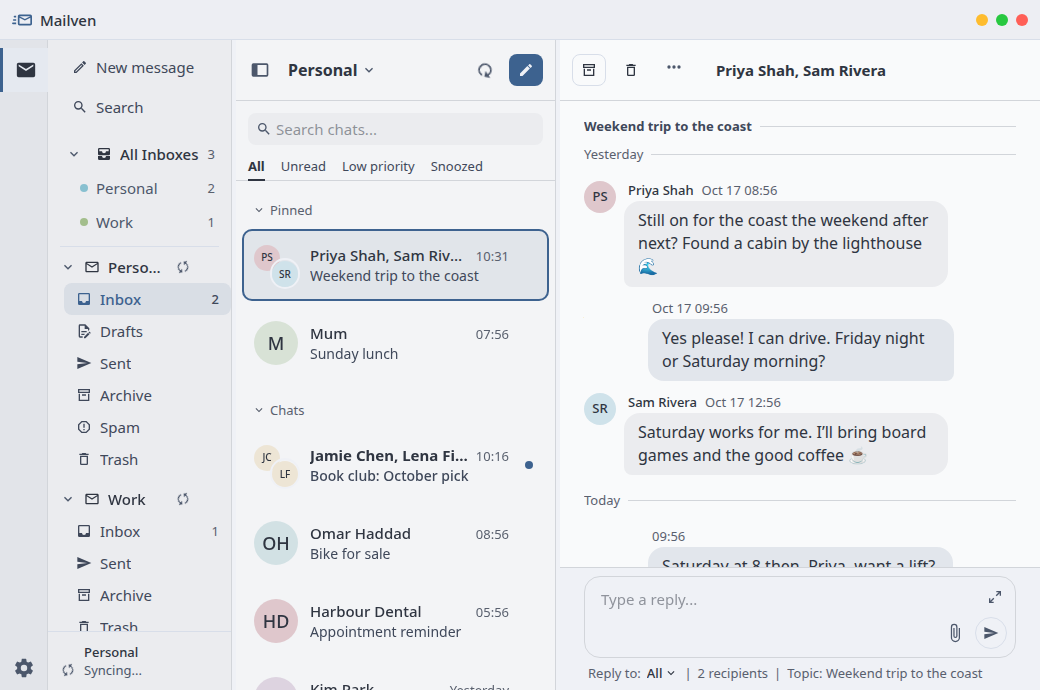
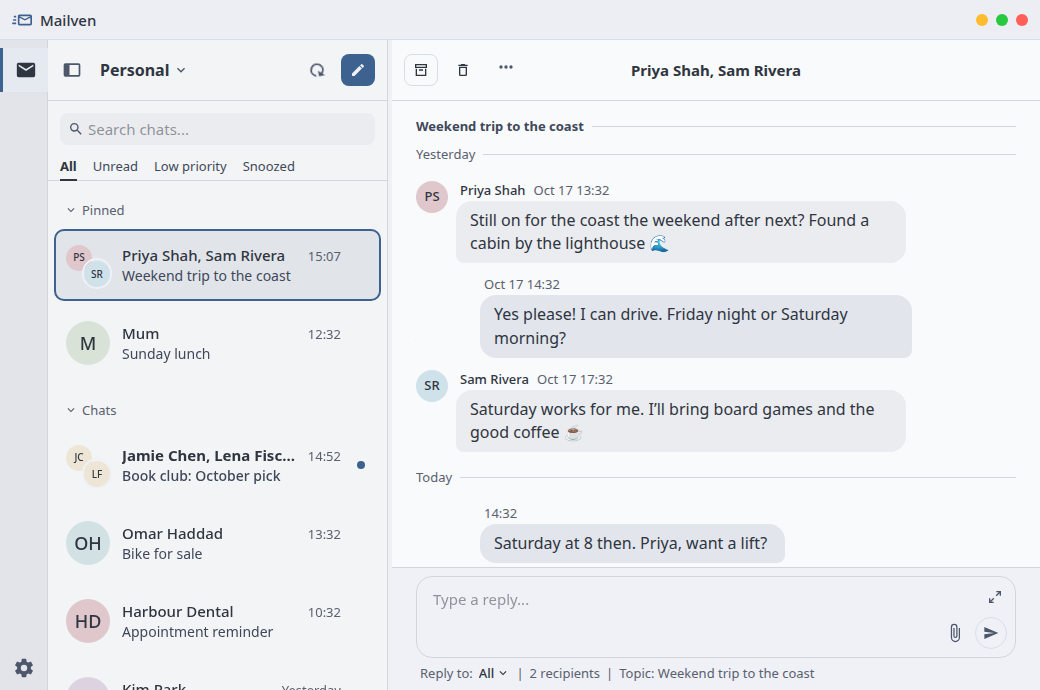
docs: compare a webmail thread with the narrow chat shot and collapse Accounts in the light shot
- Add docs/ss-webmail-thread.png, a generic dark webmail thread view of the
  trip thread (run-mailven/webmail-thread-mock.html, no real product's name or
  logo), shown beside docs/ss-narrow.png in the README.
- Retake docs/ss-light.png with the Accounts column collapsed.
- headless-shot.js renders both; the screenshot references list five shots.

diff --git a/.agents/skills/run-mailven/webmail-thread-mock.html b/.agents/skills/run-mailven/webmail-thread-mock.html
@@ -1,0 +1,80 @@
+<!doctype html>
+<!-- Generic webmail thread-view mock (dark) for the README comparison shot (docs/ss-webmail-thread.png).
+     The trip thread from screenshot-fakes.js as a typical webmail shows it; deliberately no real product's
+     name or logo. Rendered at 480x750 by headless-shot.js beside docs/ss-narrow.png. -->
+<meta charset="utf-8">
+<title>Webmail thread mock</title>
+<style>
+  * { box-sizing: border-box; }
+  body { margin: 0; width: 480px; height: 750px; overflow: hidden; font: 13px/1.35 "Noto Sans", "Segoe UI", Arial, sans-serif; color: #e3e3e3; background: #1b1b1b; }
+  .ic { width: 22px; height: 22px; display: inline-grid; place-items: center; color: #c4c7c5; flex: none; font-size: 14px; }
+  .tool { height: 46px; display: flex; align-items: center; gap: 8px; padding: 0 10px; border-bottom: 1px solid #333; }
+  .tool .pg { margin-left: auto; font-size: 11.5px; color: #a8a8a8; white-space: nowrap; }
+  .banner { margin: 8px 10px 0; padding: 7px 10px; border-radius: 8px; background: #3a3221; color: #f1dfb0; font-size: 12px; display: flex; align-items: center; gap: 8px; }
+  .banner u { color: #a8c7fa; text-decoration: none; font-weight: 600; white-space: nowrap; } .banner .x { margin-left: auto; color: #a8a8a8; }
+  .subj { display: flex; align-items: flex-start; gap: 8px; padding: 12px 14px 8px 18px; }
+  .subj h1 { margin: 0; font-size: 19px; font-weight: 400; line-height: 1.3; flex: 1; }
+  .lbl { display: inline-flex; align-items: center; gap: 4px; font-size: 11px; padding: 1px 6px; border-radius: 4px; background: #3c3c3c; color: #ddd; vertical-align: 3px; margin-left: 4px; }
+  .lbl i { font-style: normal; color: #999; }
+  .msg { display: flex; gap: 10px; padding: 9px 14px 9px 14px; border-top: 1px solid #2c2c2c; }
+  .av { width: 32px; height: 32px; border-radius: 50%; display: grid; place-items: center; font-weight: 600; font-size: 13px; color: #fff; flex: none; }
+  .bd { flex: 1; min-width: 0; }
+  .hd { display: flex; align-items: baseline; gap: 6px; white-space: nowrap; }
+  .hd b { font-weight: 700; } .hd .em { color: #a8a8a8; font-size: 11.5px; overflow: hidden; text-overflow: ellipsis; }
+  .hd .dt { margin-left: auto; color: #a8a8a8; font-size: 11.5px; padding-left: 6px; }
+  .snip { color: #a8a8a8; white-space: nowrap; overflow: hidden; text-overflow: ellipsis; }
+  .more { display: flex; align-items: center; gap: 10px; height: 28px; padding: 0 14px 0 18px; border-top: 1px solid #2c2c2c; }
+  .more .n { width: 26px; height: 26px; border-radius: 50%; border: 1px solid #555; display: grid; place-items: center; font-size: 12px; color: #c4c7c5; background: #1b1b1b; }
+  .more::after { content: ''; flex: 1; border-top: 1px solid #3a3a3a; border-bottom: 1px solid #3a3a3a; height: 3px; }
+  .to { color: #a8a8a8; font-size: 11.5px; margin-top: 1px; }
+  .acts { display: flex; gap: 4px; color: #c4c7c5; }
+  .body { margin-top: 12px; font-size: 13.5px; }
+  .body p { margin: 0 0 10px; }
+  .sig { color: #a8a8a8; font-size: 12.5px; }
+  .trim { display: inline-block; padding: 0 7px; border-radius: 6px; background: #3c3c3c; color: #ccc; font-size: 11px; letter-spacing: 1px; line-height: 14px; margin: 2px 0 8px; }
+  .quote { border-left: 1px solid #555; padding-left: 10px; color: #a8a8a8; font-size: 12.5px; }
+  .quote p { margin: 0 0 6px; }
+  .chips { display: flex; gap: 8px; padding: 6px 14px 0 56px; flex-wrap: wrap; }
+  .chips span { border: 1px solid #555; border-radius: 8px; padding: 5px 12px; color: #a8c7fa; font-size: 12.5px; }
+  .btns { display: flex; gap: 8px; padding: 12px 14px 0 56px; }
+  .btns span { border: 1px solid #666; border-radius: 18px; padding: 7px 14px; font-size: 13px; color: #e3e3e3; white-space: nowrap; }
+</style>
+<div class="tool">
+  <span class="ic">←</span><span class="ic">▣</span><span class="ic">ⓘ</span><span class="ic">⌫</span><span class="ic">✉</span><span class="ic">◷</span><span class="ic">✓</span><span class="ic">⇥</span><span class="ic">◇</span><span class="ic">⋮</span>
+  <span class="pg">2 of 2,481 &nbsp;‹ ›</span>
+</div>
+<div class="banner">🔔 Enable desktop notifications for Webmail. <u>OK</u> <u>No thanks</u><span class="x">✕</span></div>
+<div class="subj">
+  <h1>Weekend trip to the coast <span class="lbl">Inbox <i>×</i></span><span class="lbl">Travel <i>×</i></span></h1>
+  <span class="ic">⎙</span><span class="ic">⧉</span>
+</div>
+<div class="msg">
+  <span class="av" style="background:#8a5a7a">P</span>
+  <div class="bd"><div class="hd"><b>Priya Shah</b><span class="dt">Oct 17, 2026, 8:56 AM</span></div>
+  <div class="snip">Still on for the coast the weekend after next? Found a cabin by the lighthouse 🌊 Priya -- Sent from my phone</div></div>
+</div>
+<div class="more"><span class="n">3</span></div>
+<div class="msg">
+  <span class="av" style="background:#8a5a7a">P</span>
+  <div class="bd"><div class="hd"><b>Priya Shah</b><span class="dt">10:04 AM (50 minutes ago)</span></div>
+  <div class="snip">Yes please! On Sat, Oct 18, 2026 at 9:56 AM Alex Morgan &lt;alex@example.com&gt; wrote: &gt; Saturday at 8 then…</div></div>
+</div>
+<div class="msg">
+  <span class="av" style="background:#8a5a7a">P</span>
+  <div class="bd">
+    <div class="hd"><b>Priya Shah</b><span class="em">&lt;priya@example.net&gt;</span><span class="dt">10:29 AM (25 min ago)</span></div>
+    <div class="hd"><span class="to">to me, Sam ▾</span><span class="acts" style="margin-left:auto"><span class="ic">☆</span><span class="ic">☺</span><span class="ic">↩</span><span class="ic">⋮</span></span></div>
+    <div class="body">
+      <p>Booking the cabin tonight. Sunday dinner is on me.</p>
+      <p class="sig">Priya<br>-- <br>Sent from my phone</p>
+      <span class="trim">•••</span>
+      <div class="quote">
+        <p>On Sat, Oct 18, 2026 at 10:04 AM Priya Shah &lt;priya@example.net&gt; wrote:</p>
+        <p>&gt; Yes please!</p>
+        <p>&gt; On Sat, Oct 18, 2026 at 9:56 AM Alex Morgan &lt;alex@example.com&gt; wrote:<br>&gt; &gt; Saturday at 8 then. Priya, want a lift?<br>&gt; &gt; On Fri, Oct 17, 2026 at 12:56 PM Sam Rivera…</p>
+      </div>
+    </div>
+  </div>
+</div>
+<div class="chips"><span>Sounds great!</span><span>Thank you!</span><span>See you then!</span></div>
+<div class="btns"><span>↩ Reply</span><span>↩↩ Reply all</span><span>↪ Forward</span></div>

diff --git a/.agents/skills/run-mailven/headless-shot.js b/.agents/skills/run-mailven/headless-shot.js
@@ -1,8 +1,9 @@
 // Headless README shots and Accounts-column crops. See "Playwright checks" in SKILL.md.
 // Usage: node headless-shot.js <outdir>   (dev server on :34115, DISPLAY not needed)
-// Writes the README shots <outdir>/ss.png (1040x660, dark), ss-light.png (1040x690, light, Accounts expanded)
+// Writes the README shots <outdir>/ss.png (1040x660, dark), ss-light.png (1040x690, light, Accounts collapsed)
 // and ss-narrow.png (480x750, single-pane layout), ss-webmail.png (1040x690, the generic webmail mock
-// in webmail-mock.html, for the README comparison), plus <outdir>/vc-<theme>-<expanded|collapsed>.png (title bar + sidebar).
+// in webmail-mock.html, for the README comparison), ss-webmail-thread.png (480x750, the dark
+// webmail thread mock in webmail-thread-mock.html, beside ss-narrow.png), plus <outdir>/vc-<theme>-<expanded|collapsed>.png (title bar + sidebar).
 const path = require('path')
 const { withFakePage } = require('./fake-page')
 const { launch } = require('./pw')
@@ -30,7 +31,6 @@ const scrollChatToTop = (p) => p.evaluate(() => { document.querySelector('.flex-
   // The heights end the chat between messages once it is scrolled to the top.
   await withFakePage({ width: 1040, height: 690 }, async (p) => {
     await p.evaluate(() => document.documentElement.setAttribute('data-theme', 'light'))
-    await toggleOf(p).click()
     await p.waitForTimeout(800)
     await scrollChatToTop(p)
     await p.mouse.move(1039, 689)
@@ -49,5 +49,8 @@ const scrollChatToTop = (p) => p.evaluate(() => { document.querySelector('.flex-
     const p = await browser.newPage({ viewport: { width: 1040, height: 690 } })
     await p.goto('file://' + path.join(__dirname, 'webmail-mock.html'))
     await p.screenshot({ path: `${out}/ss-webmail.png` })
+    const t = await browser.newPage({ viewport: { width: 480, height: 750 } })
+    await t.goto('file://' + path.join(__dirname, 'webmail-thread-mock.html'))
+    await t.screenshot({ path: `${out}/ss-webmail-thread.png` })
   } finally { await browser.close() }
 })().catch(error => { console.error(error); process.exitCode = 1 })

diff --git a/README.md b/README.md
@@ -8,9 +8,11 @@
 
 | A typical cluttered webmail inbox | The same mail in Mailven |
 | --- | --- |
-| ![A generic webmail inbox crowded with category tabs, labels, a sponsored row, a notification banner and a storage meter, with each conversation squeezed into one line](docs/ss-webmail.png) | ![Mailven in the light theme with the Accounts column open, showing the same conversations as chats and the trip chat open as message bubbles](docs/ss-light.png) |
+| ![A generic webmail inbox crowded with category tabs, labels, a sponsored row, a notification banner and a storage meter, with each conversation squeezed into one line](docs/ss-webmail.png) | ![Mailven in the light theme with the Accounts column collapsed, showing the same conversations as chats and the trip chat open as message bubbles](docs/ss-light.png) |
 
-<img src="docs/ss-narrow.png" width="320" alt="Mailven in a narrow window, showing a single chat that starts with its subject heading">
+| A typical webmail thread | The same thread in Mailven |
+| --- | --- |
+| <img src="docs/ss-webmail-thread.png" width="320" alt="A generic dark webmail thread view with toolbar icons, a notification banner, label chips, collapsed messages, a signature, quoted history and suggested-reply buttons"> | <img src="docs/ss-narrow.png" width="320" alt="Mailven in a narrow window, showing the same thread as a single chat that starts with its subject heading"> |
 
 _Note_: this is a personal project that is alpha software under active development. User-caution is heavily emphasized, no guarantees or warranties provided. 
 

diff --git a/.agents/skills/run-mailven/references/screenshot.md b/.agents/skills/run-mailven/references/screenshot.md
@@ -4,17 +4,19 @@ Paths in commands are relative to the active checkout root; helper filenames ref
 
 ## Retaking the README screenshots
 
-The README has four shots, all of made-up mail only:
+The README has five shots, all of made-up mail only:
 
 - `docs/ss.png`: 1040×660, Dark theme, mail sidebar collapsed.
-- `docs/ss-light.png`: 1040×690, Light theme, Accounts column expanded, chat scrolled to its subject heading.
+- `docs/ss-light.png`: 1040×690, Light theme, Accounts column collapsed, chat scrolled to its subject heading.
 - `docs/ss-narrow.png`: 480×750, single-pane layout, chat scrolled to its subject heading.
 - `docs/ss-webmail.png`: 1040×690, a generic cluttered webmail inbox (`webmail-mock.html`, static HTML with
   the same made-up mail) shown beside `ss-light.png` for comparison. It must not use a real
   product's name or logo; keep its conversations in step with `screenshot-fakes.js`.
+- `docs/ss-webmail-thread.png`: 480×750, a generic dark webmail thread view of the trip thread
+  (`webmail-thread-mock.html`, same rules) shown beside `ss-narrow.png`.
 
 The quickest route is headless: `node .agents/skills/run-mailven/headless-shot.js <outdir>`
-writes all four (see [Playwright](playwright.md)). The heights of the light and narrow shots end the
+writes all five (see [Playwright](playwright.md)). The heights of the light and narrow shots end the
 chat between messages; recheck them after changing the fake conversation. The browser
 steps below retake `docs/ss.png` only.
 

diff --git a/.agents/skills/run-mailven/references/playwright.md b/.agents/skills/run-mailven/references/playwright.md
@@ -24,9 +24,9 @@ Its leading setup-module import runs before entry-point dependencies, so a
 It captures persisted UI/extension state from a bindings-only page, removes fakes
 by reloading, waits for debounced saves, asserts state is unchanged, and always
 closes the browser. Neither helper needs `serve-fakes.py`; the composer helpers
-still use that server. `headless-shot.js` writes the four README shots (`ss.png`, `ss-light.png`,
-`ss-narrow.png`, `ss-webmail.png`) plus the dark/light x Accounts-column expanded/collapsed crops.
-When retaking the README screenshots, copy those four files to `docs/` as is.
+still use that server. `headless-shot.js` writes the five README shots (`ss.png`, `ss-light.png`,
+`ss-narrow.png`, `ss-webmail.png`, `ss-webmail-thread.png`) plus the dark/light x Accounts-column expanded/collapsed crops.
+When retaking the README screenshots, copy those five files to `docs/` as is.
 
 `ui-matrix.js <outdir> <prefix>` uses the same page setup and writes 36 PNGs:
 `<prefix>-<dark|light>-<1400|900|700>-<expanded|collapsed>-<previews|nopreviews>.png`
